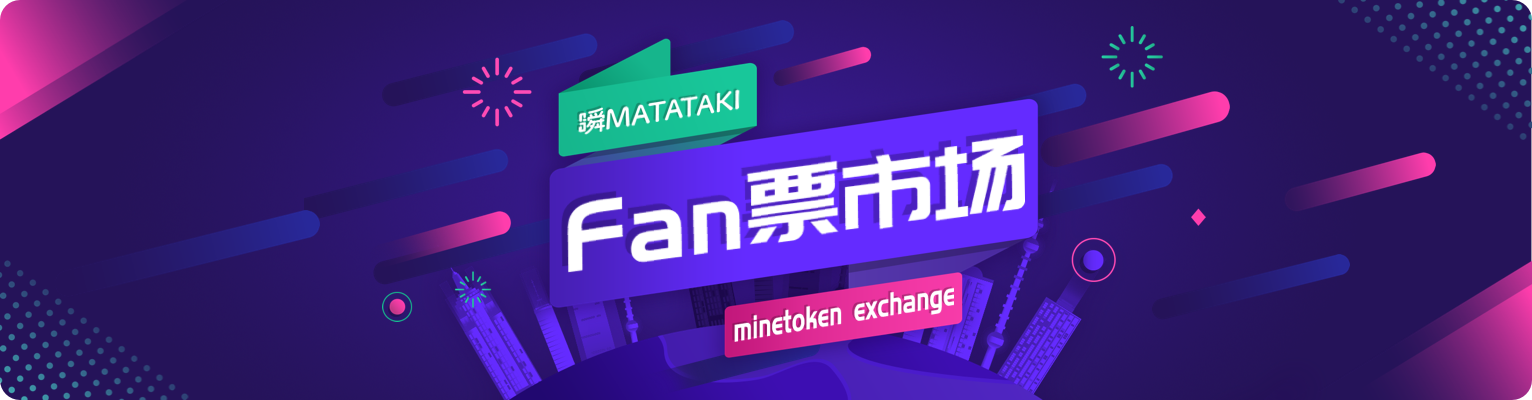
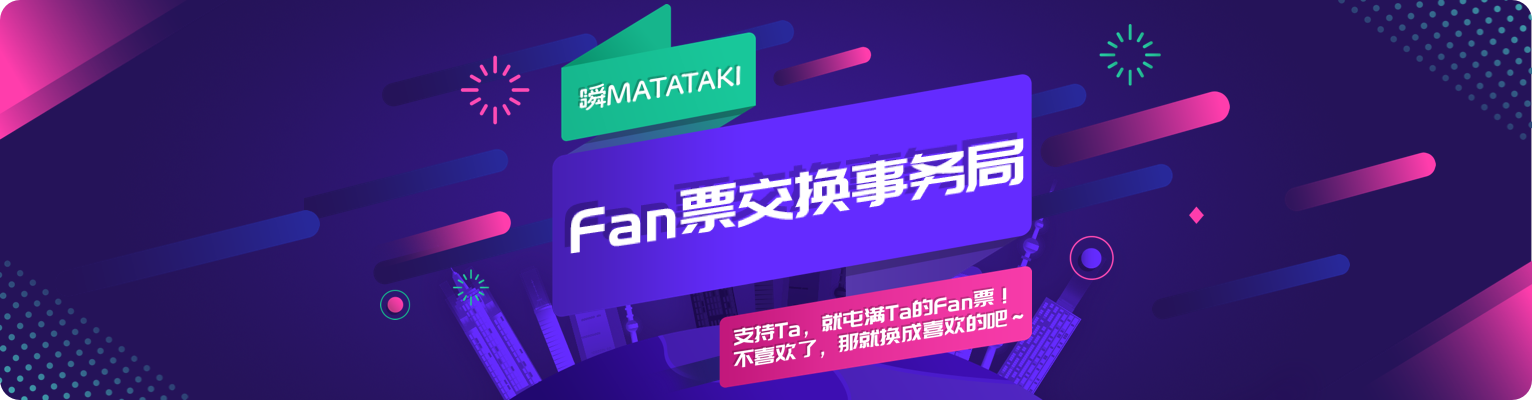
退出登录后自动返回“文章页”、更换Fan票交易所的banner

diff --git a/components/header/index.vue b/components/header/index.vue
@@ -283,7 +283,7 @@ export default {
         sessionStorage.clear()
         // this.$utils.deleteAllCookies()
         this.$router.push({
-          name: 'index'
+          name: 'article'
         })
         setTimeout(() => {
           window.location.reload()
